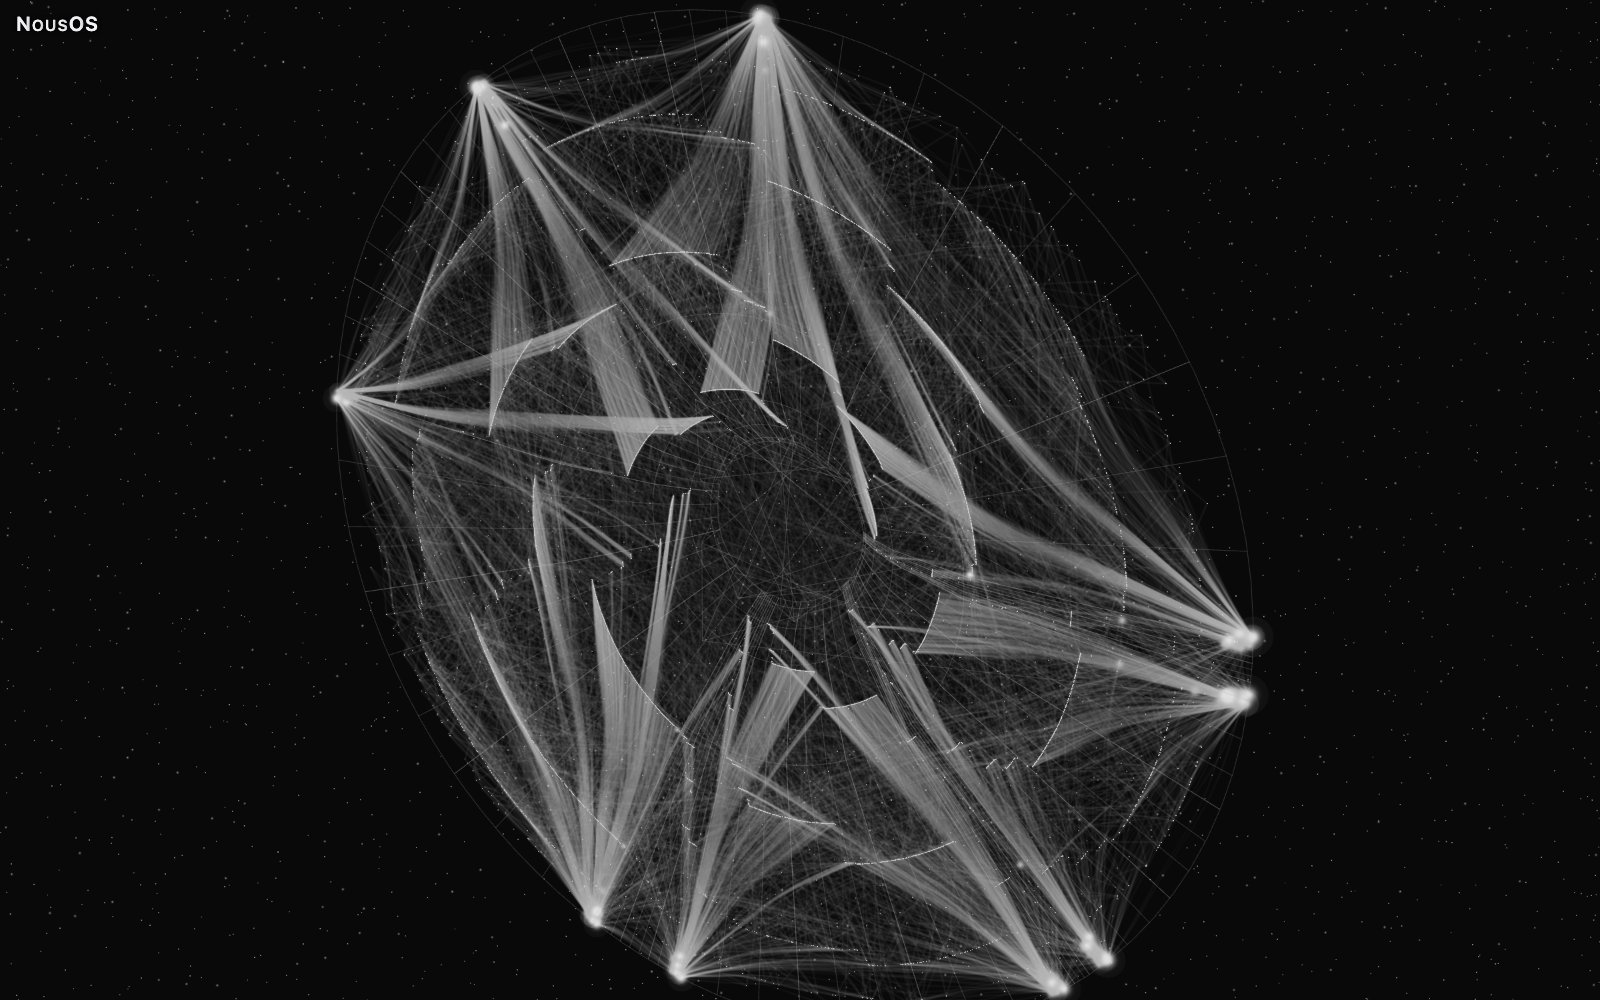
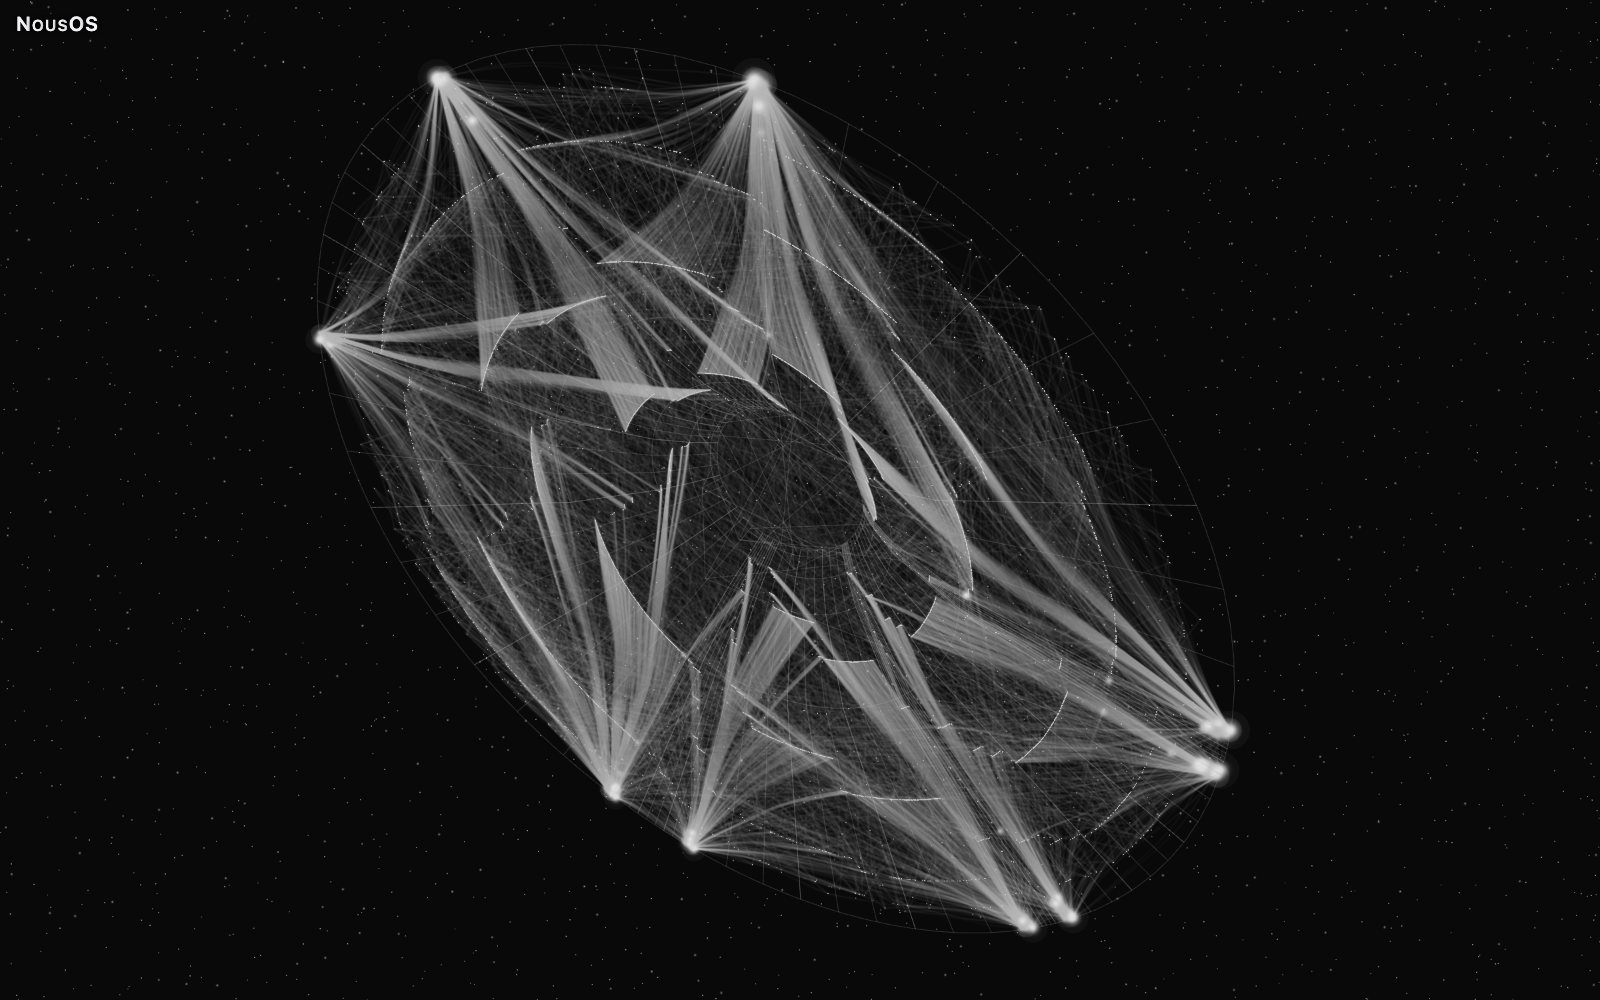
docs(gallery): tilt Julia 3D so the whole figure fits the frame
- Add a short downward drag before the same three wheel steps closer, so the relation bundles stay visible while the figure fills about 87% of the frame's height instead of 98%.
- Recapture Julia 3D and update its manifest record and render time.
- Describe the visible-structure check of every overview, and name the guide redraw as a workaround in the capture tool only.

Changed region(s): [[0.1875, 0.0, 0.8125, 1.0]]

diff --git a/docs/GALLERY-AND-MEASUREMENTS.md b/docs/GALLERY-AND-MEASUREMENTS.md
@@ -2,7 +2,7 @@
 
 The gallery uses the synthetic demo dataset, whose content is invented. Seed 1 of the `reference` profile produces the dataset digest recorded in the manifest; the profile's counts are illustrative except for its fixed node total and root-domain count. Captures use the page's fullscreen view, where only the NousOS title stays visible at the top left; node labels, panels, tooltips, selections and controls are hidden. Each capture waits for the renderer to stabilise before the image is saved. Each pair is captured in the same page session and orientation; each density is framed on its own nodes. Balanced has its own layout, 7–10× more compact than Complete in these captures, measured from the manifest's layout bounds, so an identical camera would show it as a small cluster. Both camera states are recorded in the manifest.
 
-Every capture in the README except Julia 3D is framed by measurement. The capture tool reads each drawn node's position from the page, takes the bounds of the subject's nodes (the whole graph for an overview, one cluster for a close-up; the background stars are not nodes), and moves the camera through the page's own camera state until those bounds are centred and fill the target share of the frame's limiting dimension: 85% for the overviews, 70% for the 2D close-ups and 65% for the 3D close-up. In 3D the bounds use node centres, because a node near the camera can report a footprint larger than what is drawn. Sierpiński 3D, whose outline reaches well beyond its nodes, is framed on its visible structure instead: nodes, relations and outline in a screenshot of the page, with the stars, the background glow and the title left out. After each fit and each camera change the camera makes one wheel step in and one out at the centre of the frame, which returns it to the same place and redraws the topology guides (see the known limit on guides in [Verification and limits](VERIFICATION-AND-LIMITS.md#known-limits)). A cluster is the set of nodes that descend from one root domain in the hierarchy, which is how the page groups them. At Balanced a cluster's nodes are spread across the compact Balanced layout, so the 2D close-ups use Custom with 2,000 nodes (2,000 nodes and 2,947 drawn edges in the view): the d1 cluster with all 144 of its nodes, and the d8 cluster with all 187. In 3D, Custom draws a cluster's nodes faintly among long relations, so the 3D close-up stays at Complete (11,199 nodes, 14,050 drawn edges): the camera is first dragged 120 px right and 50 px up, then centred on one source and its 61 proposals. Julia 3D keeps its earlier camera, three wheel steps closer than the fitted view (×1.16): framed at 85–93% of its node bounds its relation bundles are faint, and they become visible as the camera moves closer. The records of the framed captures hold their density, counts, camera and framing measurement; Julia 3D and the captures that the README does not show keep their earlier records. The renders stabilised before each capture; nothing is cropped or enlarged.
+Every capture in the README except Julia 3D is framed by measurement. The capture tool reads each drawn node's position from the page, takes the bounds of the subject's nodes (the whole graph for an overview, one cluster for a close-up; the background stars are not nodes), and moves the camera through the page's own camera state until those bounds are centred and fill the target share of the frame's limiting dimension: 85% for the overviews, 70% for the 2D close-ups and 65% for the 3D close-up. In 3D the bounds use node centres, because a node near the camera can report a footprint larger than what is drawn. Sierpiński 3D, whose outline reaches well beyond its nodes, is framed on its visible structure instead: nodes, relations and outline in a screenshot of the page, with the stars, the background glow and the title left out. After each fit and each camera change the capture tool makes one wheel step in and one out at the centre of the frame, which returns the camera to the same place and makes the page redraw the topology guides. This is a workaround in the capture tool only: the page itself still has the guide-placement limit listed in [Verification and limits](VERIFICATION-AND-LIMITS.md#known-limits). A cluster is the set of nodes that descend from one root domain in the hierarchy, which is how the page groups them. At Balanced a cluster's nodes are spread across the compact Balanced layout, so the 2D close-ups use Custom with 2,000 nodes (2,000 nodes and 2,947 drawn edges in the view): the d1 cluster with all 144 of its nodes, and the d8 cluster with all 187. In 3D, Custom draws a cluster's nodes faintly among long relations, so the 3D close-up stays at Complete (11,199 nodes, 14,050 drawn edges): the camera is first dragged 120 px right and 50 px up, then centred on one source and its 61 proposals. Julia 3D is tilted by a short downward drag and brought three wheel steps closer than the fitted view (×1.16): its relation bundles become visible only that close, and the tilt keeps the whole figure within about 87% of the frame's height. A separate check on the saved images measures what is drawn, meaning nodes, relations and visible guides without the stars, the background glow or the title: in all twelve overviews it fills 80–88% of the frame's limiting dimension, with its centre within 2% of the frame's centre. The records of the captures shown in the README hold their density, counts and camera, and the framed ones also their framing measurement; the captures that the README does not show keep their earlier records. The renders stabilised before each capture; nothing is cropped or enlarged.
 
 ## Density counts
 
@@ -23,7 +23,7 @@ In Natural 2D, the gallery manifest records 80 / 11,199 nodes for Essential, 400
 | Llull · 2D | 3.1 s |
 | Llull · 3D | 2.7 s |
 | Julia · 2D | 5.2 s |
-| Julia · 3D | 5.8 s |
+| Julia · 3D | 4.8 s |
 | Neural · 3D · Brain | 7.2 s |
 | Mycelium · 2D | 5.6 s |
 | Exploratory · 3D | 2.7 s |
